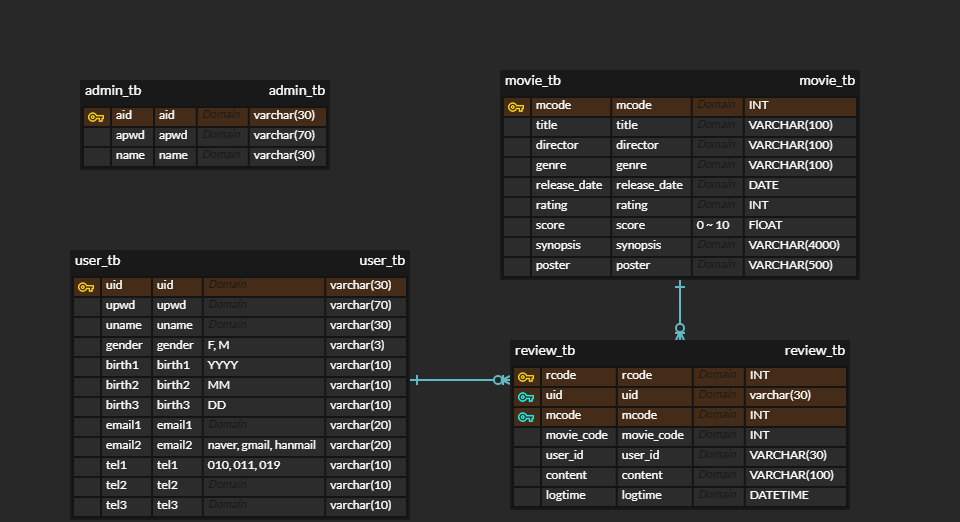
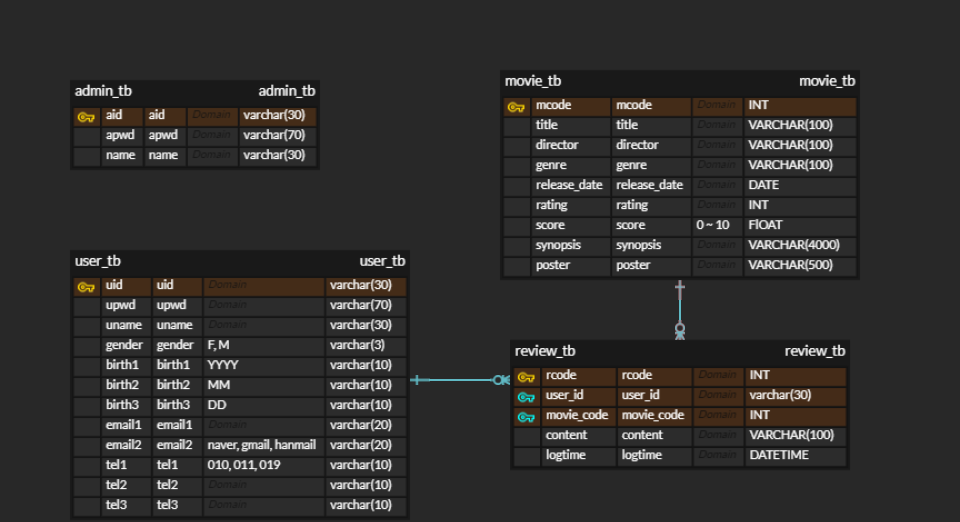
에러수정

diff --git a/src/main/java/user/service/UserWithdrawDBService.java b/src/main/java/user/service/UserWithdrawDBService.java
@@ -56,3 +56,29 @@ public class UserWithdrawDBService implements CommandProcess {
         return null; // 뷰 페이지 반환 없이 처리 완료 (AJAX 요청에 대한 응답이므로 뷰 이동 불필요)
     }
 }
+
+/*
+ * @Override public String requestPro(HttpServletRequest request,
+ * HttpServletResponse response) throws Throwable {
+ * response.setContentType("text/html; charset=UTF-8"); // 응답의 인코딩을 UTF-8로 설정
+ * response.setCharacterEncoding("UTF-8"); // 응답의 캐릭터 인코딩 설정 HttpSession session
+ * = request.getSession();
+ * 
+ * UserDTO userDTO = (UserDTO) session.getAttribute("userDTO"); if (userDTO ==
+ * null) { response.getWriter().write("userDTO=null"); return null; }
+ * 
+ * String uid = userDTO.getUid(); String nowpwd =
+ * request.getParameter("nowpwd"); UserDAO userDAO = UserDAO.getInstance();
+ * boolean ispwd = userDAO.pwdCheck(uid, nowpwd);
+ * 
+ * if (!ispwd) { response.getWriter().write("비밀번호가 맞지 않습니다"); return null; }
+ * 
+ * int result = userDAO.userWithdraw(uid);
+ * 
+ * if (result > 0) { session.invalidate(); // 세션 삭제
+ * response.getWriter().write("success"); } else {
+ * response.getWriter().write("fail"); }
+ * 
+ * return null; // 뷰 페이지 반환이 필요하지 않음 } }
+ */
+

diff --git a/README.md b/README.md
@@ -28,7 +28,7 @@
 - **movie_tb**:  영화 정보 테이블
 	![movie_tb](src/main/resources/screenshot/movie_tb.png)
 	
-- **revew_tb**:  리뷰 정보 테이블
+- **review_tb**:  리뷰 정보 테이블
 	![review_tb](src/main/resources/screenshot/review_tb.png)
 	
 ### ERD ###
@@ -99,12 +99,12 @@ E-mail : ujin302@gmail.com
 
 ## **역할**
 
-|        | 주요 작업                                                                                            |
-| ------ | --------------------------------------------------------------------------------------------------- |
-| 박채연 | 클라우드 DB, Object Storage 생성, 관리자 영화 게시판 등록, 목록(관리자 메인 페이지), 조회, 수정, 삭제, 검색 |
-| 김성찬 | 사용자 회원 가입, 로그인, 관리자 로그인, NCP 이미지 수정, 삭제                                            |
-| 김태원 | 사용자 회원정보 수정, 회원 탈퇴, 관리자 영화 게시판 검색                                                  |
-| 이유진 | 전체 DB 설계, 영화 조회 (사용자 메인 페이지), 사용자 리뷰 작성, 조회, 수정, 삭제                           |
+|          | 주요 작업                                                                                                                  |
+| -------- | -------------------------------------------------------------------------------------------------------------------------- |
+|  박채연  | 클라우드 DB, Object Storage 생성, 관리자 영화 게시판 등록, 목록(관리자 메인 페이지), 조회, 수정, 삭제, 검색                   |
+|  김성찬  | 사용자 회원 가입, 로그인, 관리자 로그인, NCP 이미지 수정, 삭제                                                               |
+|  김태원  | 사용자 회원정보 수정, 회원 탈퇴, 관리자 영화 게시판 검색                                                                     |
+|  이유진  | 전체 DB 설계, 영화 조회 (사용자 메인 페이지), 사용자 리뷰 작성, 조회, 수정, 삭제, 영화 목록 오픈 API 사용하여 영화 데이터 수집 |
 
 
 ## 🤝 기여
